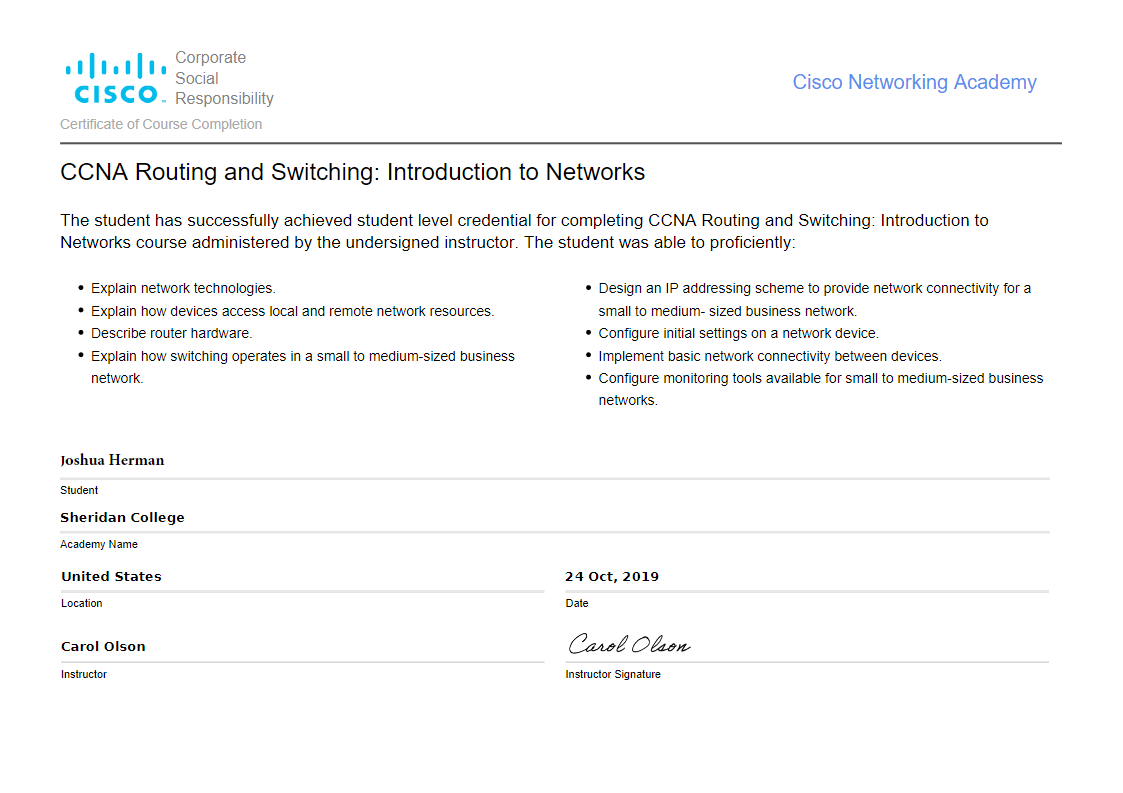
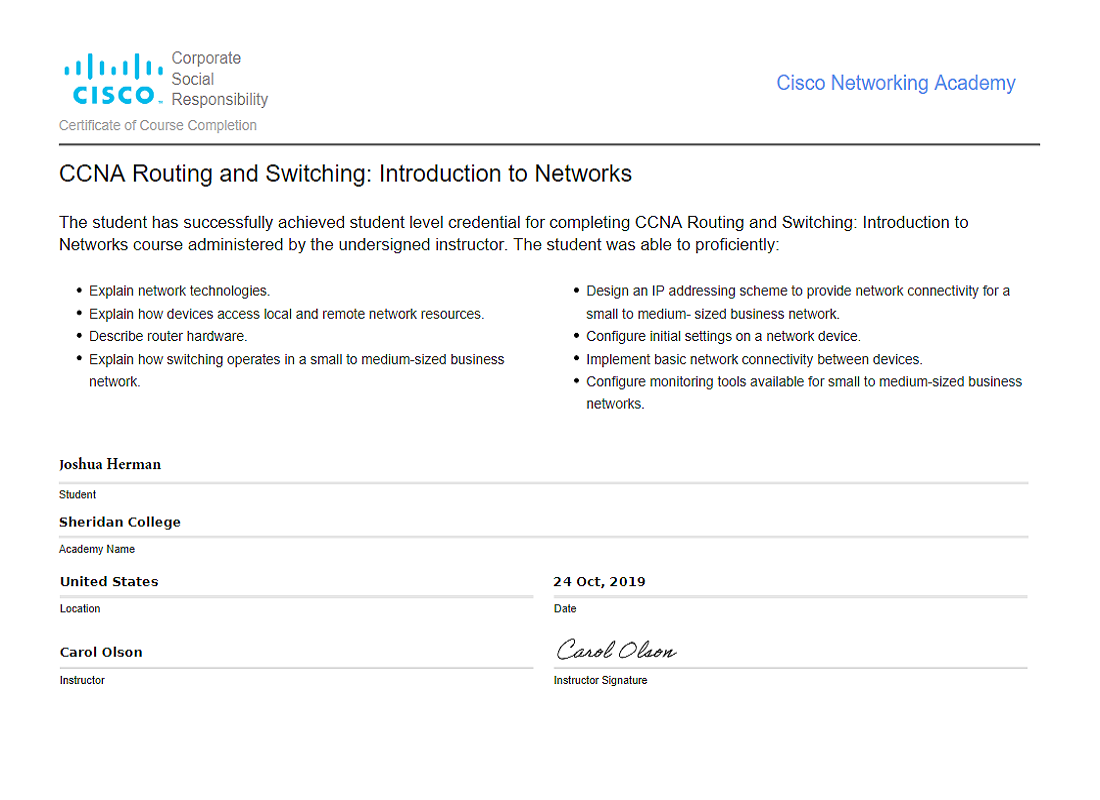
Added content
Fixed about, certs, and fine tuned styling

diff --git a/packages/landingpage/components/biocard.js b/packages/landingpage/components/biocard.js
@@ -1,0 +1,35 @@
+function BioCard () {
+  return (
+    <>
+      <div className='flex flex-col bg-white w-64'>
+        <div className='max-w-sm bg-white shadow-lg rounded-lg overflow-hidden' />
+        <img className='w-full object-cover object-center' src='/self/me.jpg' alt='avatar' />
+        <div className='flex items-center px-6 py-3 bg-gray-900'>
+          <h1 className='mx-3 text-white font-semibold text-lg'>Joshua Herman</h1>
+        </div>
+        <div className='py-4 px-6'>
+          <p className='py-2 text-lg text-gray-700'>Full Stack developer, love designing networks and the world of tinkering.</p>
+          <div className='flex items-center mt-4 text-gray-700'>
+            <svg className='h-6 w-6 fill-current' viewBox='0 0 512 512'>
+              <path d='M239.208 343.937c-17.78 10.103-38.342 15.876-60.255 15.876-21.909 0-42.467-5.771-60.246-15.87C71.544 358.331 42.643 406 32 448h293.912c-10.639-42-39.537-89.683-86.704-104.063zM178.953 120.035c-58.479 0-105.886 47.394-105.886 105.858 0 58.464 47.407 105.857 105.886 105.857s105.886-47.394 105.886-105.857c0-58.464-47.408-105.858-105.886-105.858zm0 186.488c-33.671 0-62.445-22.513-73.997-50.523H252.95c-11.554 28.011-40.326 50.523-73.997 50.523z' /><g><path d='M322.602 384H480c-10.638-42-39.537-81.691-86.703-96.072-17.781 10.104-38.343 15.873-60.256 15.873-14.823 0-29.024-2.654-42.168-7.49-7.445 12.47-16.927 25.592-27.974 34.906C289.245 341.354 309.146 364 322.602 384zM306.545 200h100.493c-11.554 28-40.327 50.293-73.997 50.293-8.875 0-17.404-1.692-25.375-4.51a128.411 128.411 0 0 1-6.52 25.118c10.066 3.174 20.779 4.862 31.895 4.862 58.479 0 105.886-47.41 105.886-105.872 0-58.465-47.407-105.866-105.886-105.866-37.49 0-70.427 19.703-89.243 49.09C275.607 131.383 298.961 163 306.545 200z' /></g>
+            </svg>
+            <h1 className='px-2 text-sm'>Freelance</h1>
+          </div>
+          <div className='flex items-center mt-4 text-gray-700'>
+            <svg className='h-6 w-6 fill-current' viewBox='0 0 512 512'>
+              <path d='M256 32c-88.004 0-160 70.557-160 156.801C96 306.4 256 480 256 480s160-173.6 160-291.199C416 102.557 344.004 32 256 32zm0 212.801c-31.996 0-57.144-24.645-57.144-56 0-31.357 25.147-56 57.144-56s57.144 24.643 57.144 56c0 31.355-25.148 56-57.144 56z' />
+            </svg>
+            <h1 className='px-2 text-sm'>Wyoming</h1>
+          </div>
+          <div className='flex items-center mt-4 text-gray-700'>
+            <svg className='h-6 w-6 fill-current' viewBox='0 0 512 512'>
+              <path d='M437.332 80H74.668C51.199 80 32 99.198 32 122.667v266.666C32 412.802 51.199 432 74.668 432h362.664C460.801 432 480 412.802 480 389.333V122.667C480 99.198 460.801 80 437.332 80zM432 170.667L256 288 80 170.667V128l176 117.333L432 128v42.667z' />
+            </svg>
+            <h1 className='px-2 text-sm'>joshsimages@gmail.com</h1>
+          </div>
+        </div>
+      </div>
+    </>
+  )
+}
+export default BioCard

diff --git a/packages/landingpage/pages/about.js b/packages/landingpage/pages/about.js
@@ -1,34 +1,26 @@
 import Layout from '../components/layout'
-
+import BioCard from '../components/biocard'
 function AboutPage () {
   return (
     <Layout>
-      <div className='flex flex-col space-y-6 md:flex-row md:space-x-6 md:space-y-0'>
+      <div className='flex flex-col md:flex-row md:space-x-6 md:space-y-0'>
+        <BioCard />
         <div className='space-y-6 md:w-1/2'>
           {[
             {
               heading: 'My life',
-              body: 'I\'m  always learning and constantly developing my skills.'
+              body: 'When I was a young kid I was always fascinated with technology and all its possibilities. While growing up I would always be building peoples computers and explaining the technology, how to use it, and what it could do for them. Being from an oil town I naturally got into oil and worked my way up the ranks at all my job. Starting in 2016 I realized oil was not my only path forward. Enrolling in college to pursue network administration and integrated systems I found a deeper understanding of technology and its uses. Now days I have a home lab with multiple servers hosting webservers and doing a lot of work on AWS deployment of webservers. I utilize Docker on all my instances for containerization and rapid deployment while using Ansible to control my automation across the stack.'
             },
             {
-              heading: 'What is Next.js?',
-              body: `Next.js is a minimalistic framework for creating server-rendered
-              React applications.`
+              heading: 'What\'s Next',
+              body: 'My future I want to be a full-stack developer and constantly learn more advance concepts and push myself to be a better developer.'
             }
           ].map((section) => (
             <div key={section.heading}>
-              <h2 className='mb-3 text-xl font-bold'>{section.heading}</h2>
+              <h2 className='mb-1 text-xl font-bold'>{section.heading}</h2>
               <p>{section.body}</p>
             </div>
           ))}
-        </div>
-
-        <div className='md:max-w-xl  content-center'>
-          <img
-            alt='Me'
-            className='border-orange-600 border-4  rounded-full h-64'
-            src='/self/me.jpg'
-          />
         </div>
       </div>
     </Layout>

diff --git a/packages/landingpage/components/footer.js b/packages/landingpage/components/footer.js
@@ -1,25 +1,25 @@
 function Footer () {
   return (
-    <footer className='bg-white'>
-      <ul className='flex items-center justify-between max-w-4xl mx-auto p-4 md:p-8 text-sm text-black'>
-        <li>
-                    Created by:{' '}
-          <a href='https://www.joshuaherman.tech' target='_blank' rel='noopener noreferrer' className='font-bold'>
-                        Joshua Herman
-          </a>
-        </li>
-
-        <li>
-          <a
-            href='https://github.com/LocalHappiness'
-            target='_blank'
-            rel='noopener noreferrer'
-            className='font-bold'
-          >
-            <img src='logos/GitHub.svg' className='w-8 h-8' />
-          </a>
-        </li>
-      </ul>
+    <footer className='flex flex-col w-full justify-evenly md:flex-row flex-no-wrap mx-auto p-2 md:p-4'>
+      <div>
+        <ul className='text-sm text-black'>
+          <li>
+          Created by:{' '}
+            <a href='https://www.joshuaherman.tech' target='_blank' rel='noopener noreferrer' className='font-bold'>
+          Joshua Herman
+            </a>
+          </li>
+        </ul>
+      </div>
+      <div>
+        <a
+          href='https://github.com/LocalHappiness'
+          target='_blank'
+          rel='noopener noreferrer'
+        >
+          <img src='logos/GitHub.svg' className='w-8 h-8' />
+        </a>
+      </div>
     </footer>
   )
 }

diff --git a/packages/landingpage/components/header.js b/packages/landingpage/components/header.js
@@ -6,8 +6,8 @@ function Header () {
 
   return (
     <header>
-      <div className='flex flex-wrap flex-col md:flex-row md:flex-no-wrap items-center md:justify-center max-w-4xl mx-auto p-1 md:p-1'>
-        <div className='flex items-center'>
+      <div className='flex flex-wrap flex-col md:flex-row md:flex-no-wrap items-center md:justify-center max-w-4xl mx-auto md:p-1'>
+        <div className='items-center'>
           <Link href='/'>
             <img
               src='logos/logo.svg'
@@ -23,6 +23,7 @@ function Header () {
             className='fill-current h-5 w-5'
             viewBox='0 0 20 20'
             xmlns='http://www.w3.org/2000/svg'
+            fill='#ffa500'
           >
             <title>Menu</title>
             <path d='M0 3h20v2H0V3zm0 6h20v2H0V9zm0 6h20v2H0v-2z' />
@@ -40,9 +41,9 @@ function Header () {
             { title: 'Certifications', route: '/certs' }
 
           ].map(navigationItem => (
-            <li className='mt-3 md:mt-0 md:ml-6' key={navigationItem.title}>
+            <li className='md:mt-0 md:ml-6' key={navigationItem.title}>
               <Link href={navigationItem.route}>
-                <a className='block text-black hover:text-blue-600'>{navigationItem.title}</a>
+                <a className='block text-black hover:text-orange-600'>{navigationItem.title}</a>
               </Link>
             </li>
           ))}

diff --git a/packages/landingpage/components/certGallery.js b/packages/landingpage/components/certGallery.js
@@ -24,16 +24,18 @@ const Buttons = () => {
 
   return (
     <>
-      <div className='flex flex-col md:flex-row bg-white'>
-        <div id='Certificate Image Selector' className='bg-white p-2 min-w-lg'>
+      <div className='flex flex-col md:flex-row'>
+        <div id='Certificate Image Selector' className='order-2 md:order-1 p-2'>
           {arrayOfCerts.map((cert) => (
             <div key={cert.name} className='flex-no-wrap flex-grow py-1'>
-              <button className='bg-blue-600 text-white rounded p-1  text-xs hover:bg-orange-600' onClick={() => setSRC(cert.src)}>{cert.name}</button>
+              <button className='bg-gray-900 w-64 text-white rounded p-1 text-xs hover:bg-orange-600 shadow-xl outline-none' onClick={() => setSRC(cert.src)}>{cert.name}</button>
             </div>
           ))}
         </div>
-        <div id='Image Viewer' className='bg-white'>
-          <img src={src} height='800' width='1000' />
+        <div id='Image Viewer' className='order-1 md:order-2 border-1 border-black shadow-xl max-h-screen h-full'>
+          <div className='bg-gray-900 h-6' />
+          <img src={src} width='700' />
+          <div className='bg-gray-900 h-6' />
         </div>
       </div>
     </>

diff --git a/packages/landingpage/components/layout.js b/packages/landingpage/components/layout.js
@@ -4,17 +4,19 @@ import Head from 'next/head'
 
 function Layout (props) {
   return (
-    <div className='flex flex-col min-h-screen'>
-      <Head>
-        <link rel='icon' type='image/x-icon' href='favicon.ico' />
-        <title>Joshua Herman</title>
-      </Head>
-      <Header />
-      <main className='flex-1 w-full max-w-6xl p-4 mx-auto md:px-8 md:py-8'>
-        {props.children}
-      </main>
+    <>
+      <div>
+        <Head>
+          <link rel='icon' type='image/x-icon' href='favicon.ico' />
+          <title>Joshua Herman</title>
+        </Head>
+        <Header />
+        <main className='flex-1 w-full max-w-6xl p-1 mx-auto md:px-8 md:py-2'>
+          {props.children}
+        </main>
+      </div>
       <Footer />
-    </div>
+    </>
   )
 }
 

diff --git a/packages/landingpage/pages/test.js b/packages/landingpage/pages/test.js
@@ -1,0 +1,14 @@
+import Layout from '../components/layout'
+import BioCard from '../components/biocard'
+
+function Test () {
+  return (
+    <Layout>
+      <div>
+        <BioCard />
+      </div>
+    </Layout>
+  )
+}
+
+export default Test

diff --git a/packages/landingpage/pages/certs.js b/packages/landingpage/pages/certs.js
@@ -4,9 +4,7 @@ import CertContainer from '../components/certGallery'
 export default function Certs () {
   return (
     <Layout>
-      <div>
-        <CertContainer />
-      </div>
+      <CertContainer />
     </Layout>
   )
 }

diff --git a/packages/landingpage/css/index.css b/packages/landingpage/css/index.css
@@ -5,3 +5,15 @@
 strong {
     @apply text-blue-600;
 }
+
+strong:hover {
+    @apply text-orange-600;
+}
+
+a:hover {
+    @apply text-orange-600;
+}
+
+svg:hover {
+    fill: #ffa500;
+}
